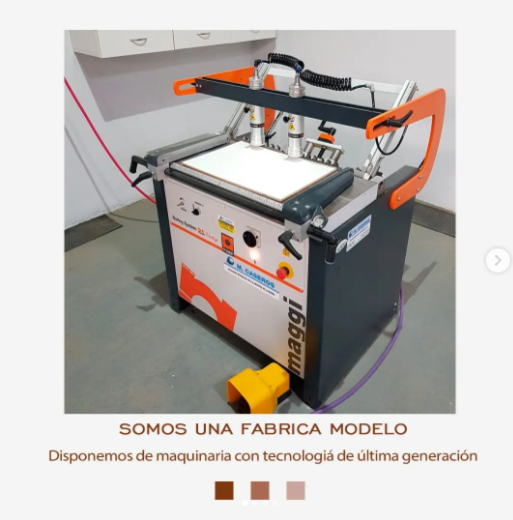
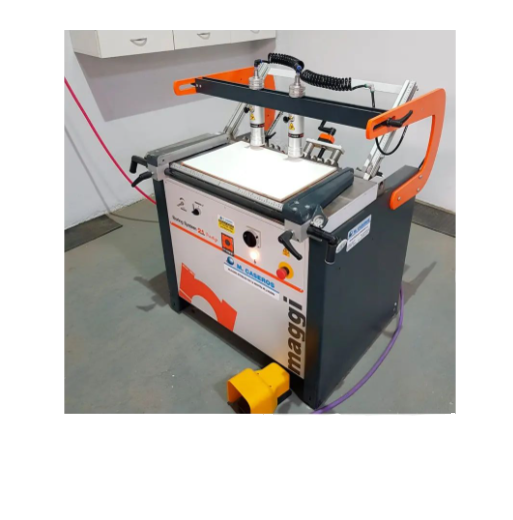
carousel index

Changed region(s): [[0.0936, 0.8, 0.9357, 0.8923], [0.4055, 0.9231, 0.6238, 0.9846], [0.9669, 0.4923, 0.9981, 0.5231]]

diff --git a/index.html b/index.html
@@ -48,17 +48,47 @@
         <main>
             <h1>Sobre Nosotros</h1>
             <p>Somos Charpentiers, una empresa dedicada al diseño y fabricación de muebles a medida para tu hogar, oficina o local.</p>
-            <p>Fabricamos muebles personalizados para cada espacio de tu hogar, con opciones de diseño flexibles.</p>
-            <p>Nos adaptamos a la necesidad de cada cliente, guiándolos en el desarrollo de cada proyecto</p>
-            <h3>Somos una fabrica modelo</h3>
-            <p>Contamos con un gran equipo de profesionales y disponemos de maquinarias y tecnologias de ultima generación, lo que nos permite ofrecerte un servicio de calidad y en menor tiempo</p>
-            <div class="img_index">
-                <img src="./img/nosotros_1.png" alt="" width="35%" height="50%">
-                <img src="./img/nosotros_2.png" alt="" width="35%" height="50%">
-                <img src="./img/nosotros_3.jpg" alt="" width="25%" height="40%">
-                <img src="./img/nosotros_4.jpg" alt="" width="25%" height="40%">
-            </div>
         </main>
+        <div class="container carousel">
+            <div class="row">
+                <div id="carouselExampleCaptions" class="carousel slide col-6 carousel-mio" data-bs-ride="false">
+                    <div class="carousel-indicators">
+                      <button type="button" data-bs-target="#carouselExampleCaptions" data-bs-slide-to="0" class="active" aria-current="true" aria-label="Slide 1"></button>
+                      <button type="button" data-bs-target="#carouselExampleCaptions" data-bs-slide-to="1" aria-label="Slide 2"></button>
+                      <button type="button" data-bs-target="#carouselExampleCaptions" data-bs-slide-to="2" aria-label="Slide 3"></button>
+                    </div>
+                    <div class="carousel-inner carousel_img">
+                      <div class="carousel-item active">
+                        <img src="./img/logo1.jpg" class="d-block w-100 image-responsive" alt="...">
+                        <div class="carousel-caption d-none d-md-block">
+                          <p class="p_img">Fabricamos muebles personalizados para cada espacio de tu hogar, con opciones de diseño flexibles.</p>
+                        </div>
+                      </div>
+                      <div class="carousel-item">
+                        <img src="./img/inicio-5.png" class="d-block w-100 image-responsive" alt="...">
+                        <div class="carousel-caption d-none d-md-block">
+                          <h4>Somos una fabrica modelo</h4>
+                          <p class="p_img">Contamos con un gran equipo de profesionales y disponemos de maquinarias y tecnologias de ultima generación, lo que nos permite ofrecerte un servicio de calidad y en menor tiempo</p>
+                        </div>
+                      </div>
+                      <div class="carousel-item">
+                        <img src="./img/inicio-7.png" class="d-block w-100 image-responsive" alt="...">
+                        <div class="carousel-caption d-none d-md-block">
+                          <p class="p_img">Nos adaptamos a la necesidad de cada cliente, guiándolos en el desarrollo de cada proyecto</p>
+                        </div>
+                      </div>
+                    </div>
+                    <button class="carousel-control-prev" type="button" data-bs-target="#carouselExampleCaptions" data-bs-slide="prev">
+                      <span class="carousel-control-prev-icon" aria-hidden="true"></span>
+                      <span class="visually-hidden">Previous</span>
+                    </button>
+                    <button class="carousel-control-next" type="button" data-bs-target="#carouselExampleCaptions" data-bs-slide="next">
+                      <span class="carousel-control-next-icon" aria-hidden="true"></span>
+                      <span class="visually-hidden">Next</span>
+                    </button>
+                  </div>
+            </div>
+        </div>
         <footer>
             <div>
                 <h6>
@@ -75,7 +105,7 @@
             </div>
             <div class="direction">
                 <P>Direccion: Pasaje Zorzal 2209. Ciudad de Córdoba, Argentina</P>
-                <iframe src="https://www.google.com/maps/embed?pb=!1m18!1m12!1m3!1d851.0770078807855!2d-64.13572267083676!3d-31.433185798837393!2m3!1f0!2f0!3f0!3m2!1i1024!2i768!4f13.1!3m3!1m2!1s0x9432bd3aaf14c425%3A0x950d943c540d1d85!2sZorzal%202209%2C%20C%C3%B3rdoba!5e0!3m2!1ses-419!2sar!4v1664674041405!5m2!1ses-419!2sar" width="400" height="300" style="border:0;" allowfullscreen="" loading="lazy" referrerpolicy="no-referrer-when-downgrade"></iframe>
+                <iframe src="https://www.google.com/maps/embed?pb=!1m18!1m12!1m3!1d851.0770078807855!2d-64.13572267083676!3d-31.433185798837393!2m3!1f0!2f0!3f0!3m2!1i1024!2i768!4f13.1!3m3!1m2!1s0x9432bd3aaf14c425%3A0x950d943c540d1d85!2sZorzal%202209%2C%20C%C3%B3rdoba!5e0!3m2!1ses-419!2sar!4v1664674041405!5m2!1ses-419!2sar" width="400" height="300" style="border:0;" allowfullscreen="" loading="lazy" referrerpolicy="no-referrer-when-downgrade" width="100%"></iframe>
             </div>
         </footer>
     </section>

diff --git a/css/style.css b/css/style.css
@@ -71,3 +71,14 @@ h6 {
         height: 30%;
         margin-bottom: 5%;
     }
+
+    h4 {
+        color: black;
+        margin: auto;
+    }
+    .p_img {
+        color: black;
+    }
+    .carousel-mio {
+        margin: auto;
+    }
